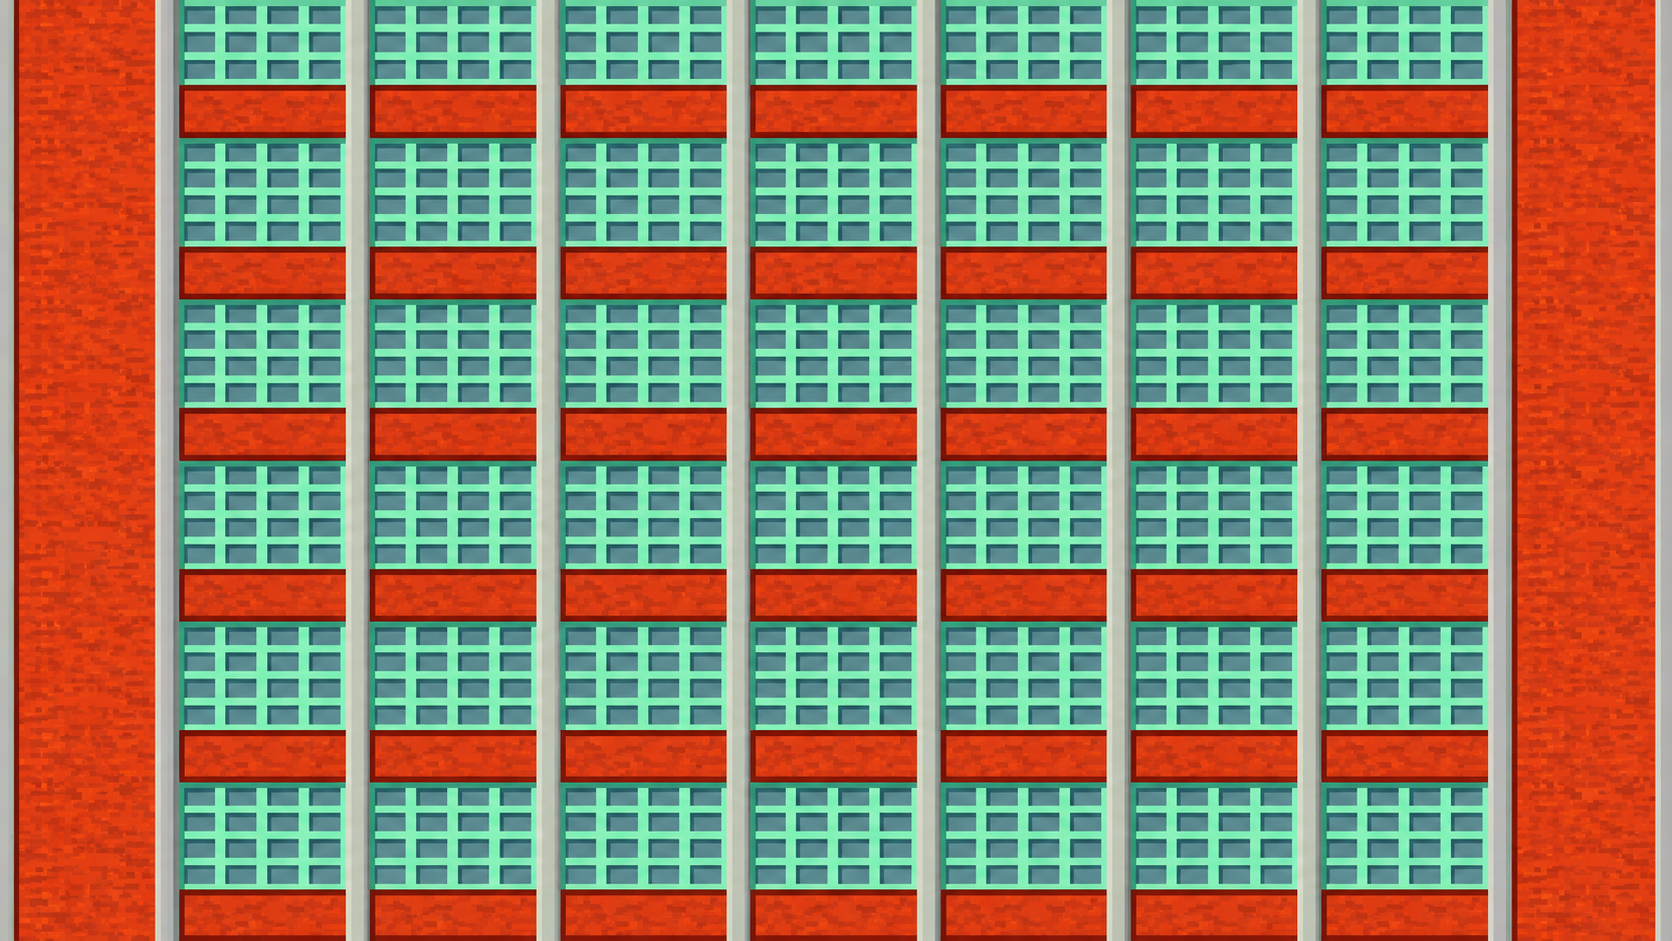
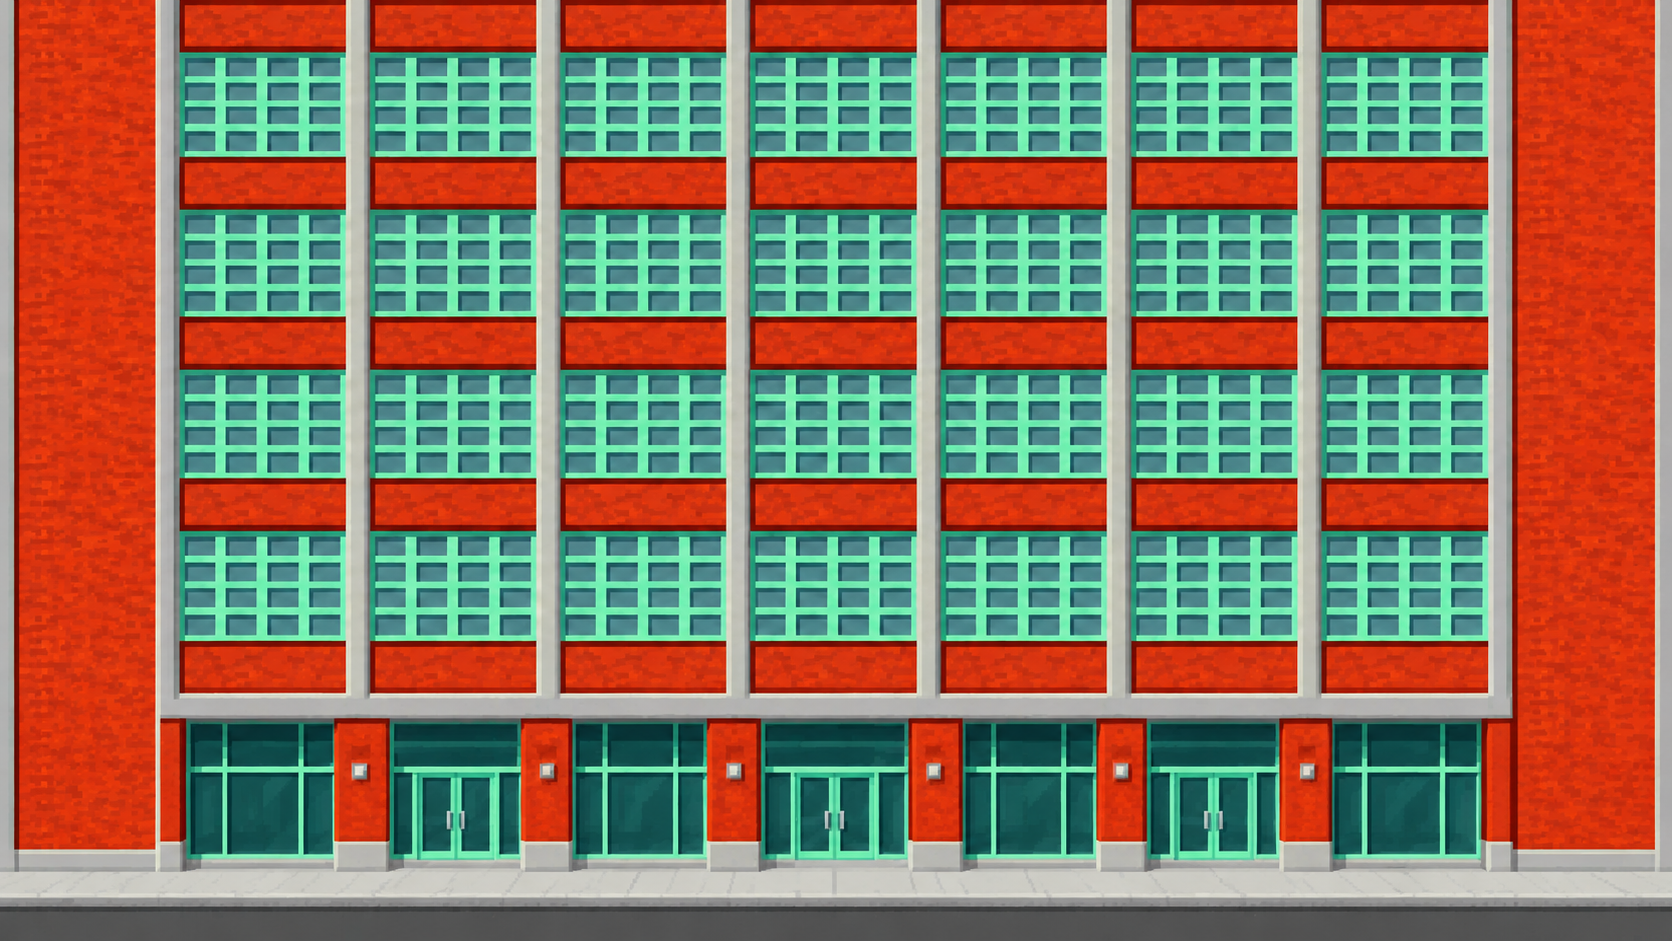
some tweaks and maps changes

diff --git a/frontend/src/App.tsx b/frontend/src/App.tsx
@@ -27,6 +27,7 @@ function App() {
   const [totalPausedMs, setTotalPausedMs] = useState(0);
   const [elapsedMs, setElapsedMs] = useState(0);
   const [finalTimeMs, setFinalTimeMs] = useState(0);
+  const [runInstanceId, setRunInstanceId] = useState(0);
 
   const [leaderboardItems, setLeaderboardItems] = useState<LeaderboardItem[]>([]);
   const [isLeaderboardLoading, setIsLeaderboardLoading] = useState(false);
@@ -83,6 +84,7 @@ function App() {
 
   function startMap(map: AvailableMap) {
     setSelectedMap(map);
+    setRunInstanceId((currentId) => currentId + 1);
     resetRunClock();
     setScreen('playing');
   }
@@ -133,6 +135,7 @@ function App() {
   }
 
   function handleRestartRun() {
+    setRunInstanceId((currentId) => currentId + 1);
     resetRunClock();
   }
 
@@ -206,7 +209,11 @@ function App() {
         <GameHud elapsedMs={elapsedMs} playerName={playerName} />
 
         <div className="game-shell">
-          <PhaserGame isPaused={isRunPaused} mapId={selectedMap.id} />
+          <PhaserGame
+            key={`${selectedMap.id}-${runInstanceId}`}
+            isPaused={isRunPaused}
+            mapId={selectedMap.id}
+          />
         </div>
 
         {isRunPaused && (